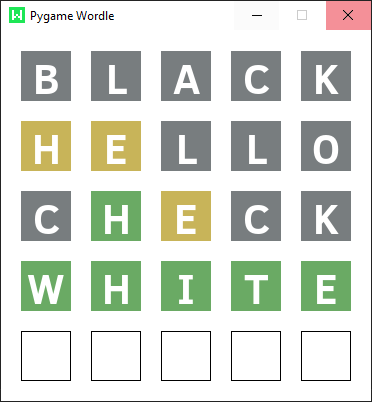
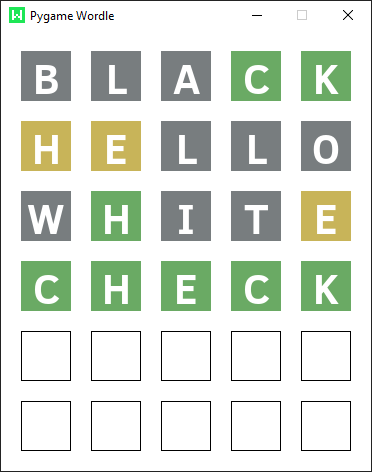
Change the number of attempts, now it is an option in constants.py

diff --git a/src/main.py b/src/main.py
@@ -13,14 +13,16 @@ if __name__ == '__main__':
     pygame.display.set_icon(icon)
     
     # Screen
-    screen = pygame.display.set_mode((SCREEN_WIDTH, SCREEN_HEIGHT))
+    screen_width = WORD_LENGTH * (BLOCK_SIZE + SEPARATION) + SEPARATION
+    screen_height = ATTEMPTS * (BLOCK_SIZE + SEPARATION) + SEPARATION
+    screen = pygame.display.set_mode((screen_width, screen_height))
     screen.fill(WHITE)
 
     # Wordle
     words_str = open(WORDS_LIST).read()
     word_list = words_str.split(',')
     target_word = word_list[random.randint(0, len(word_list) - 1)]
-    wordle = Wordle(screen, WORD_LENGTH, target_word)
+    wordle = Wordle(screen, WORD_LENGTH, ATTEMPTS, target_word)
 
     # Game loop
     running = True
@@ -30,8 +32,8 @@ if __name__ == '__main__':
         for event in pygame.event.get():
 
             if not wordle.finished:
-                # Get the key if is a letter
-                if event.type == pygame.KEYDOWN and 97 <= event.key <= 122:
+                # Get the key if is a letter 
+                if event.type == pygame.KEYDOWN and 97 <= event.key <= 122: # ascii code from a to z
                     wordle.write_letter(pygame.key.name(event.key))
 
                 if event.type == pygame.KEYDOWN and event.key == pygame.K_BACKSPACE:

diff --git a/src/wordle.py b/src/wordle.py
@@ -4,9 +4,10 @@ import pygame
 
 
 class Wordle:
-    def __init__(self, screen, word_length, target_word):
+    def __init__(self, screen, word_length, attemps, target_word):
         self.screen = screen
         self.word_length = word_length
+        self.attemps = attemps
         self.target_word = target_word.upper()
 
         self.actual_line = 0
@@ -41,7 +42,7 @@ class Wordle:
             if win:
                 self.finished = True
                 print('You win!')
-            elif self.actual_line == self.word_length - 1:
+            elif self.actual_line == self.attemps - 1:
                 self.finished = True
                 print('You lose!')
             else:
@@ -51,7 +52,7 @@ class Wordle:
             print('You must finish the line!')
 
     def _create_level(self):
-        for j in range(self.word_length):
+        for j in range(self.attemps):
 
             grid_line = []
 

diff --git a/src/constants.py b/src/constants.py
@@ -1,16 +1,12 @@
 # Game config
 
 WORD_LENGTH = 5
-WORDS_LIST = '../data/words.txt' 
+ATTEMPTS = 6
+WORDS_LIST = f'../data/words_{WORD_LENGTH}.txt' 
 
 # Text fonts
 
 BOX_TEXT_FONT = "../fonts/ClearSans-Bold.ttf"
-
-# Screen
-
-SCREEN_WIDTH = 370
-SCREEN_HEIGHT = 370
 
 # Box dims and separations
 
